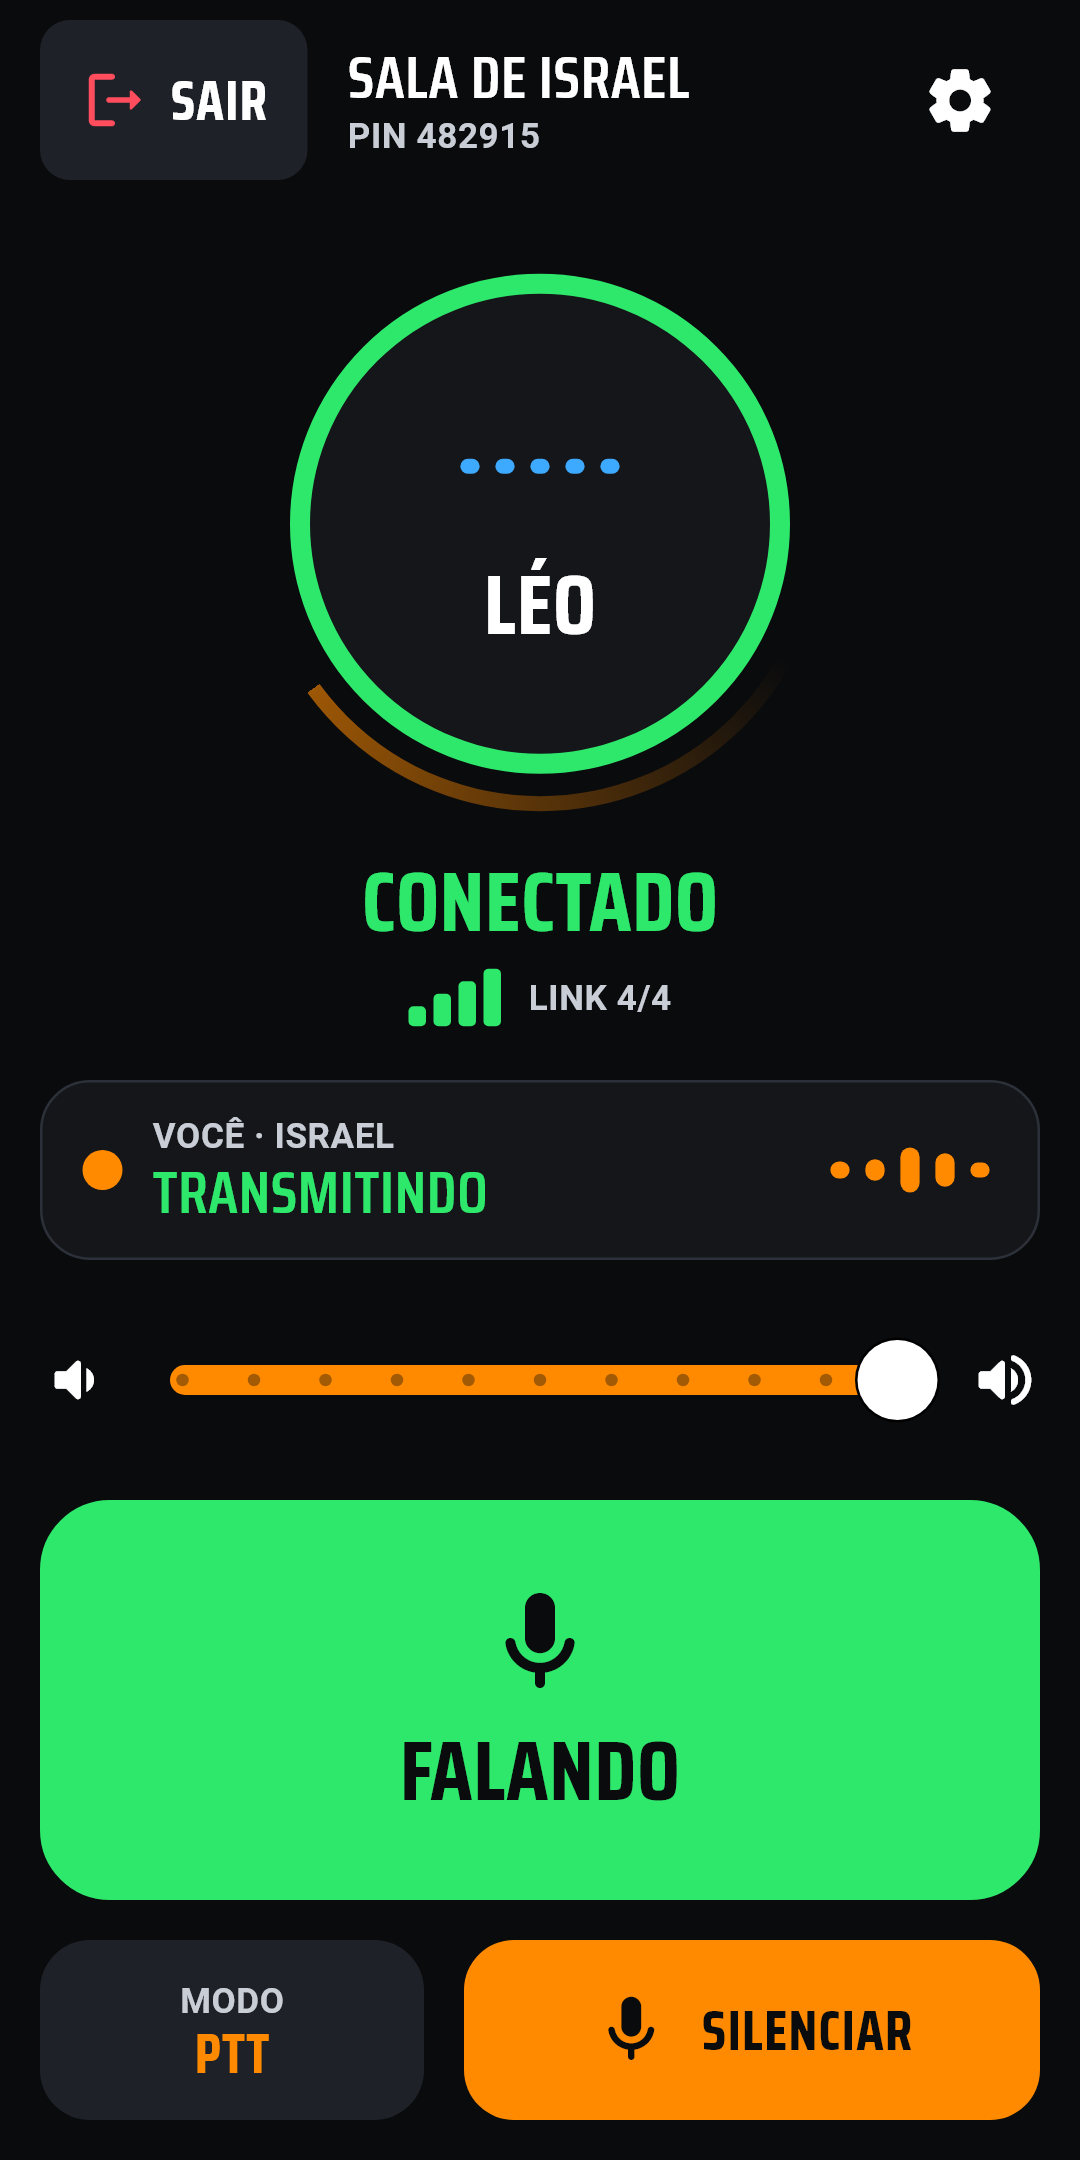
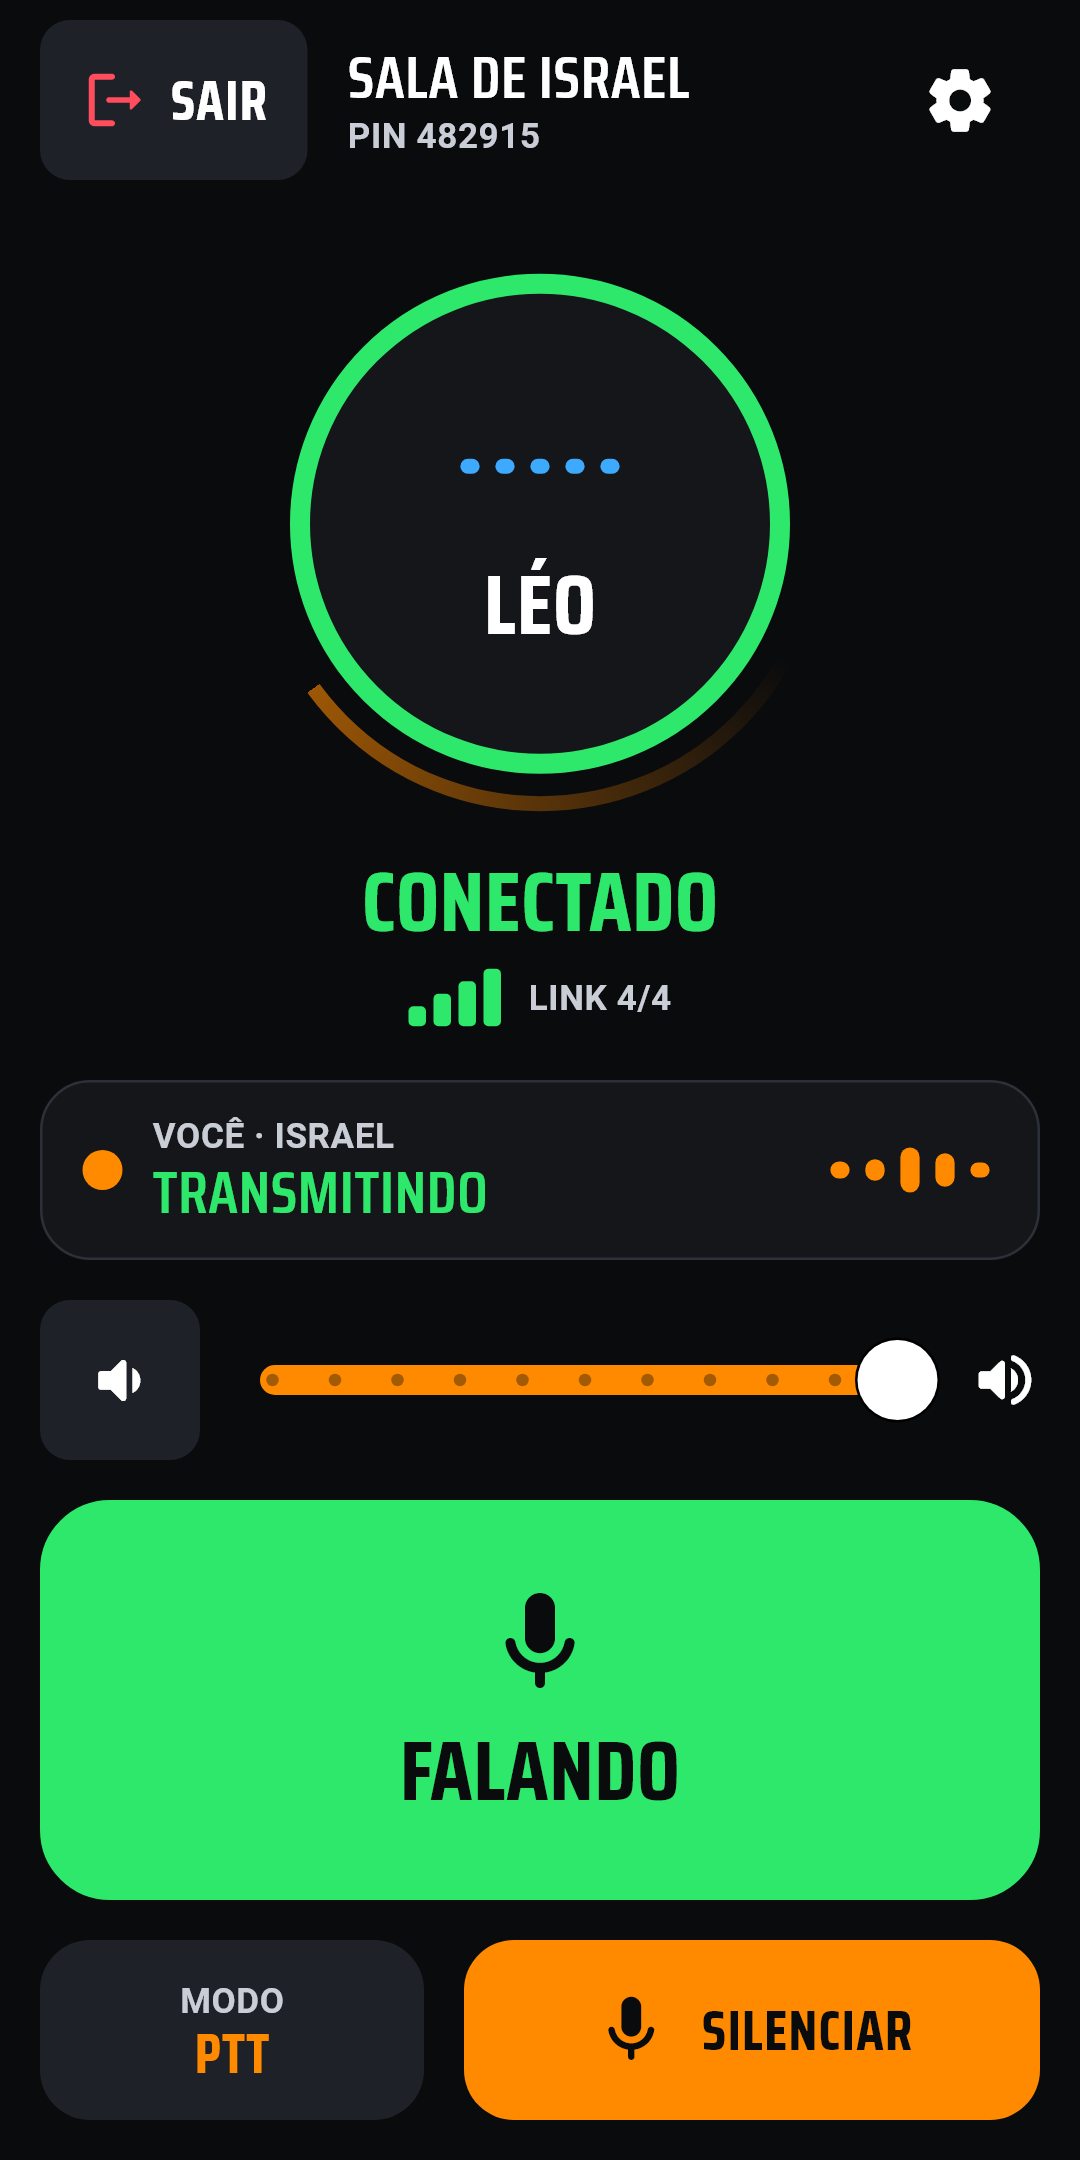
Mudo do fone: para de ouvir os outros sem sair da sala
Botao ao lado do volume silencia o audio recebido; o mudo do microfone
continua separado no botao Silenciar. Mexer no volume reabre o fone.

Changed region(s): [[0.0306, 0.5894, 0.2444, 0.6824]]

diff --git a/lib/core/room_controller.dart b/lib/core/room_controller.dart
@@ -50,6 +50,9 @@ class RoomController extends ChangeNotifier {
   List<String> localIps = const [];
 
   bool muted = false;
+
+  /// Fone mudo: para de ouvir os outros pilotos sem sair da sala.
+  bool deafened = false;
   bool pttDown = false;
   bool transmitting = false;
   double localLevel = 0;
@@ -193,6 +196,7 @@ class RoomController extends ChangeNotifier {
     await platform.routeToHelmet();
     await platform.keepScreenOn(settings.keepScreenOn);
     muted = false;
+    deafened = false;
     pttDown = false;
     _applyGate(force: true);
   }
@@ -422,7 +426,7 @@ class RoomController extends ChangeNotifier {
     if (_ticks % 8 == 0) {
       _refreshHelmet();
       // Conexões novas nascem no volume máximo: reaplica o escolhido.
-      if (volume < 0.999) setVolumeSilently();
+      if (volume < 0.999 || deafened) setVolumeSilently();
     }
     notifyListeners();
   }
@@ -519,8 +523,16 @@ class RoomController extends ChangeNotifier {
     notifyListeners();
   }
 
+  void toggleDeafen() {
+    deafened = !deafened;
+    setVolumeSilently();
+    feedback.say(deafened ? 'Fone mudo' : 'Fone aberto');
+    notifyListeners();
+  }
+
   void setVolume(double v) {
     volume = v;
+    deafened = false;
     setVolumeSilently();
     notifyListeners();
   }
@@ -528,7 +540,7 @@ class RoomController extends ChangeNotifier {
   void setVolumeSilently() {
     for (final link in _links.values) {
       final t = link.remoteTrack;
-      if (t != null) platform.setTrackVolume(t, volume);
+      if (t != null) platform.setTrackVolume(t, deafened ? 0 : volume);
     }
   }
 

diff --git a/lib/features/room_screen.dart b/lib/features/room_screen.dart
@@ -526,10 +526,34 @@ class _VolumeRow extends StatelessWidget {
       height: Touch.min,
       child: Row(
         children: [
-          Icon(Icons.volume_down_rounded, size: 28, color: p.text),
+          Semantics(
+            button: true,
+            label: room.deafened
+                ? 'Fone mudo. Toque para voltar a ouvir.'
+                : 'Silenciar o fone',
+            child: Material(
+              color: room.deafened ? p.danger : p.surfaceHigh,
+              borderRadius: BorderRadius.circular(Rd.sm),
+              clipBehavior: Clip.antiAlias,
+              child: InkWell(
+                onTap: room.toggleDeafen,
+                child: SizedBox(
+                  width: Touch.min,
+                  height: Touch.min,
+                  child: Icon(
+                    room.deafened
+                        ? Icons.volume_off_rounded
+                        : Icons.volume_down_rounded,
+                    size: 30,
+                    color: room.deafened ? p.onAccent : p.text,
+                  ),
+                ),
+              ),
+            ),
+          ),
           Expanded(
             child: Slider(
-              value: room.volume,
+              value: room.deafened ? 0 : room.volume,
               min: 0,
               max: 1,
               divisions: 10,

diff --git a/docs/05-lojas.md b/docs/05-lojas.md
@@ -42,6 +42,7 @@ COMO FUNCIONA
 RECURSOS
 • Sem internet, sem chip, sem cadastro.
 • Botões grandes, feitos para usar de luva.
+• Mudo do microfone e mudo do fone, separados.
 • Três modos de fala: microfone aberto, ativação por voz (VOX) e apertar para falar (PTT).
 • Reconecta sozinho quando as motos se afastam e voltam.
 • Avisos por voz no capacete: quem conectou, quem saiu do alcance, quem voltou.
